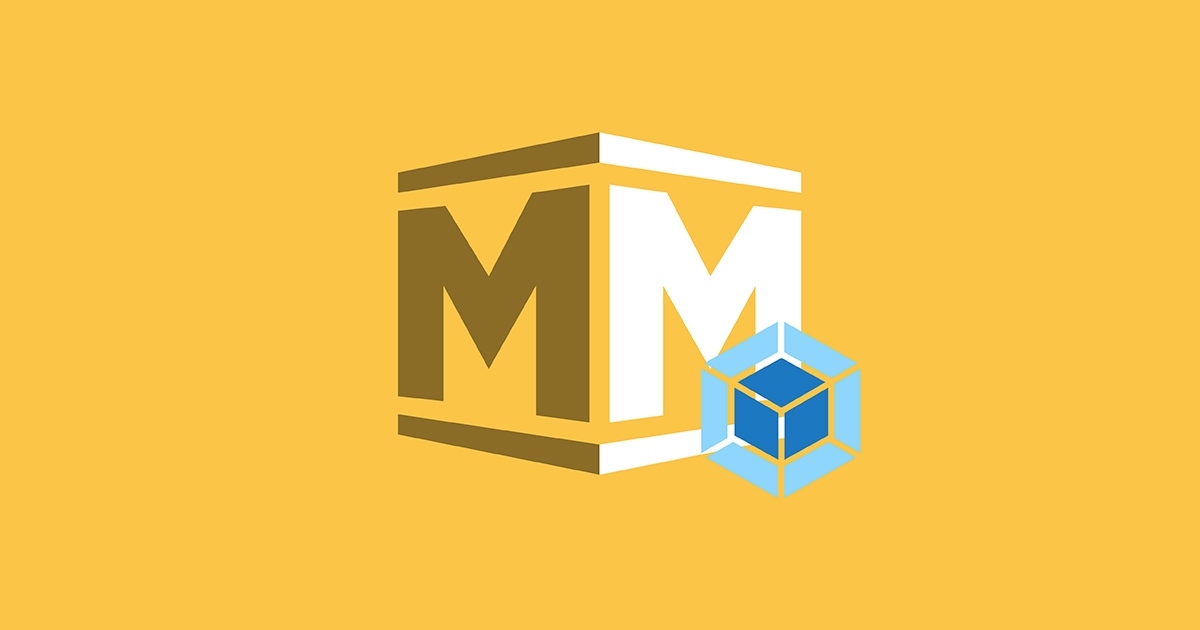
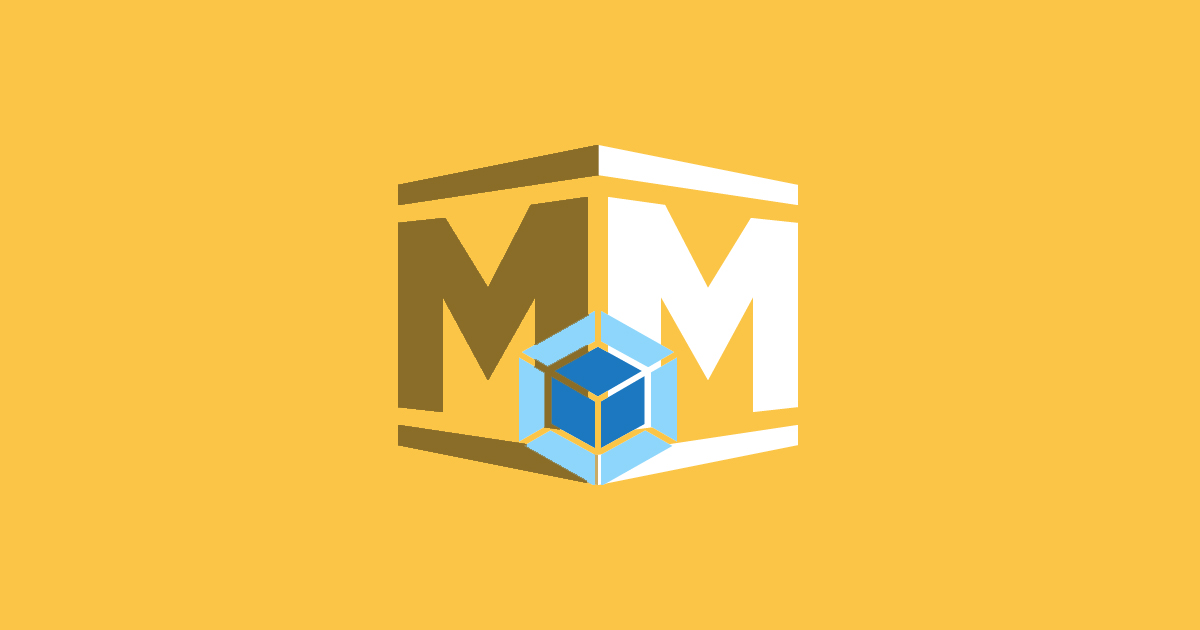
Bump to 0.0.3

Changed region(s): [[0.3083, 0.2111, 0.74, 0.7841]]

diff --git a/source/assets/stylesheets/vendors-settings/_icomoon.scss b/source/assets/stylesheets/vendors-settings/_icomoon.scss
@@ -1,15 +1,16 @@
-$icomoon-font-family: "icomoon" !default;
-$icomoon-font-path:   "/assets/fonts" !default;
-$icomoon-github:      "\e900";
-$icomoon-middleman:   "\e901";
-$icomoon-json:        "\e902";
-$icomoon-javascript:  "\e903";
-$icomoon-git:         "\e904";
-$icomoon-html:        "\e905";
-$icomoon-css:         "\e906";
-$icomoon-ruby:        "\e907";
-$icomoon-yml:         "\e908";
-$icomoon-bash:        "\e909";
+$icomoon-font-family:       "icomoon" !default;
+$icomoon-font-path:         "/assets/fonts" !default;
+$icomoon-github:            "\e900";
+$icomoon-middleman:         "\e901";
+$icomoon-json:              "\e902";
+$icomoon-javascript:        "\e903";
+$icomoon-git:               "\e904";
+$icomoon-html:              "\e905";
+$icomoon-css:               "\e906";
+$icomoon-ruby:              "\e907";
+$icomoon-yaml:              "\e908";
+$icomoon-bash:              "\e909";
+$icomoon-webpack:           "\e910";
 
 @font-face {
   font-family: '#{$icomoon-font-family}';
@@ -38,7 +39,7 @@ i {
 .icomoon-css {
   &::before {
     content: $icomoon-css;
-    color: #1572b6;
+    color: #1572B6;
   }
 }
 .icomoon-git {
@@ -81,8 +82,16 @@ i {
     color: #CC342D;
   }
 }
-.icomoon-yml {
+.icomoon-webpack {
   &::before {
-    content: $icomoon-yml;
+    content: $icomoon-webpack;
+  }
+}
+.icomoon-yaml {
+  &::before {
+    content: $icomoon-yaml;
+    font-size: 0.6em;
+    color: $red;
+    bottom: 2px;
   }
 }

diff --git a/source/assets/stylesheets/components/_code.scss b/source/assets/stylesheets/components/_code.scss
@@ -26,6 +26,16 @@ code[class*="language"] {
   display: block;
   overflow: auto;
 }
+code.language-bash {
+  display: inline-block;
+  &::before {
+    content: "$";
+    position: absolute;
+    top: 1.3em;
+    left: 0;
+    color: $gray;
+  }
+}
 :not(pre) > code[class*="language-"] {
   position: relative;
   padding: .2em;
@@ -106,6 +116,7 @@ code[class*="language"] {
 .token.lf::before {
   color: $white-dark;
 }
+// Override default button style
 .code-toolbar .toolbar {
   top: .8em !important;
   right: .7em !important;
@@ -120,5 +131,8 @@ code[class*="language"] {
     border-radius: 1px !important;
     font-weight: 600 !important;
     &:focus { outline: none; }
+  }
+  .toolbar-item:first-child button {
+    border-right-width: 0 !important;
   }
 }

diff --git a/source/assets/stylesheets/_site.scss b/source/assets/stylesheets/_site.scss
@@ -13,6 +13,7 @@ h1, h2, h3, h4, h5, h6 {
 a {
   text-decoration: none;
   transition: all 0.1s linear;
+  &:focus { outline: none; }
 }
 hr {
   border-style: solid;

diff --git a/source/assets/stylesheets/pages/_about.scss b/source/assets/stylesheets/pages/_about.scss
@@ -23,7 +23,7 @@
   }
   small {
     font-size: 0.5em;
-    a { color: $black; }
+    a { color: $gray-dark; }
   }
   a:hover { text-decoration: underline; }
   ul {

diff --git a/source/assets/stylesheets/layouts/_footer.scss b/source/assets/stylesheets/layouts/_footer.scss
@@ -6,4 +6,5 @@ footer {
   font-size: 1.1em;
   a { color: $red; }
   .avatar { width: 2em; }
+  .logo { height: 0.85em; }
 }

diff --git a/config.rb b/config.rb
@@ -13,8 +13,8 @@ set :js_dir,     'assets/javascripts'
 
 # Activate and configure extensions
 
-activate :autoprefixer do |prefix|
-  prefix.browsers = 'last 2 versions'
+activate :autoprefixer do |config|
+  config.browsers = 'last 2 versions'
 end
 
 activate :external_pipeline,
@@ -54,6 +54,7 @@ configure :build do
   ignore   File.join(config[:js_dir], '*')
   set      :relative_links, true
   activate :asset_hash
+  # Place your base icon in the image dir and specify the file in site.yml
   activate :favicon_maker, icons: generate_favicon_hash
   activate :gzip
   activate :imageoptim, manifest: false, pngout: false, svgo: false
